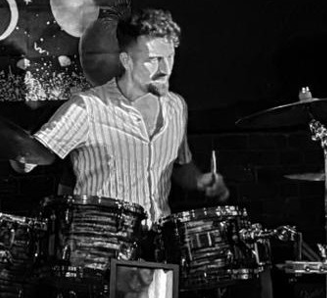
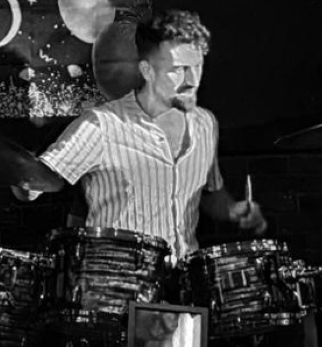
Resize band member photos and style borders and fonts

diff --git a/index.html b/index.html
@@ -115,10 +115,10 @@
                     <div id="services-table" class="col-12 m-0 p-2">
 
                         <div id="availability" class="services heading mb-1 mt-1">
-                        <p class="mb-0"><i class="fa-solid fa-calendar-days"></i> Availability</p>
+                        <p class="mb-0 py-2"><i class="fa-solid fa-calendar-days"></i> Availability</p>
                         </div>
                         <div class="services info">
-                        <p class="mb-0">Weekends, evenings & select weekdays. Advance bookings preferred.</p>
+                        <p class="mb-0 py-2">Weekends, evenings & select weekdays. Advance bookings preferred.</p>
                         </div>
 
 
@@ -126,7 +126,7 @@
                         <p class="mb-0"><i class="fa-solid fa-music"></i> Set times</p>
                         </div>
                         <div class="services info">
-                        <p class="mb-0">Option of either 45 mins / 90mins / 120mins sets</p>
+                        <p class="mb-0 py-2">Option of either 45 mins / 90mins / 120mins sets</p>
                         </div>
 
 
@@ -151,69 +151,69 @@
 
 
     <!-- Band member profile section -->
-    <section id="the-band" class="heading mt-5">
+    
+    <section id="the-band" class="mt-5 p-0">
         <div class="container-fluid p-0">
             <div class="row g-0">
                 <div class="col-12">
-                    <h2 class="my-4text-center">The band</h2>
+                    <h2 class="text-center heading">The band</h2>
                 </div>
-        </div>
-
-        <div id="band-members" class="row g-0 bg-black py-4 justify-content-center">
-
-        <!-- Chris -->
-        <div class="col-12 col-sm-6 col-xl-3 d-flex justify-content-center">
-            <div class="card text-center" style="max-width: 22rem;">
-            <img src="./assets/images/Chris.png" alt="Chris singing on stage" class="img-fluid mb-1 mt-3">
-            <div class="card-body">
-                <h3>Chris Morley</h3>
-                <p>Vocals & Guitar</p>
-            </div>
             </div>
         </div>
 
-        <!-- Gary -->
-        <div class="col-12 col-sm-6 col-xl-3 d-flex justify-content-center">
-            <div class="card text-center" style="max-width: 22rem;">
-            <img src="./assets/images/Gary.png" alt="Gary playing guitar on stage" class="img-fluid mb-1 mt-3">
-            <div class="card-body">
-                <h3>Gary Stone</h3>
-                <p>Vocals & Guitar</p>
+        <div id="band-members" class="row g-0 py-4 justify-content-center">
+
+            <!-- Chris -->
+            <div class="col-12 col-sm-6 col-xl-auto d-flex justify-content-center">
+                <div class="card text-center mb-4 mx-2" style="max-width: 22rem;">
+                    <img src="./assets/images/Chris.png" alt="Chris singing on stage" class="img-fluid mb-1 mt-3">
+                    <div class="card-body band-member">
+                        <h3>Chris Morley</h3>
+                        <p>Vocals & Guitar</p>
+                    </div>
+                </div>
             </div>
+
+            <!-- Gary -->
+            <div class="col-12 col-sm-6 col-xl-auto d-flex justify-content-center">
+                <div class="card text-center mb-4 mx-2" style="max-width: 22rem;">
+                    <img src="./assets/images/Gary.png" alt="Gary playing guitar on stage" class="img-fluid mb-1 mt-3">
+                    <div class="card-body band-member">
+                        <h3>Gary Stone</h3>
+                        <p>Vocals & Guitar</p>
+                    </div>
+                </div>
+            </div>
+
+            <!-- Callum -->
+            <div class="col-12 col-sm-6 col-xl-auto d-flex justify-content-center">
+                <div class="card text-center mb-4 mx-2" style="max-width: 22rem;">
+                    <img src="./assets/images/Callum-bw.png" alt="Callum playing bass" class="img-fluid mb-1 mt-3">
+                    <div class="card-body band-member">
+                        <h3>Callum Aves</h3>
+                        <p>Vocals & Bass Guitar</p>
+                    </div>
+                </div>
+            </div>
+
+            <!-- Rhys -->
+            <div class="col-12 col-sm-6 col-xl-auto d-flex justify-content-center">
+                <div class="card text-center mb-4 mx-2" style="max-width: 22rem;">
+                    <img src="./assets/images/Rhys-bw.png" alt="Rhys playing drums" class="img-fluid mb-1 mt-3">
+                    <div class="card-body band-member">
+                        <h3>Rhys Best</h3>
+                        <p>Drums</p>
+                    </div>
+                </div>
             </div>
         </div>
-
-        <!-- Callum -->
-        <div class="col-12 col-sm-6 col-xl-3 d-flex justify-content-center">
-            <div class="card text-center" style="max-width: 22rem;">
-            <img src="./assets/images/Callum-bw.png" alt="Callum playing bass" class="img-fluid mb-1 mt-3">
-            <div class="card-body">
-                <h3>Callum Aves</h3>
-                <p>Vocals & Bass Guitar</p>
-            </div>
-            </div>
-        </div>
-
-        <!-- Rhys -->
-        <div class="col-12 col-sm-6 col-xl-3 d-flex justify-content-center">
-            <div class="card text-center" style="max-width: 22rem;">
-            <img src="./assets/images/Rhys-bw.png" alt="Rhys playing drums" class="img-fluid mb-1 mt-3">
-            <div class="card-body">
-                <h3>Rhys Best</h3>
-                <p>Drums</p>
-            </div>
-            </div>
-        </div>
-
-    </div>
-  </div>
-</section>
+    </section>
 
         <!-- Contact/Booking Section -->
-        <section id="booking" class="container-fluid text-center p-0 heading">
+        <section id="booking" class="container-fluid text-center p-0 mt-5">
             <div class="row g-0">
                 <div id="booking-header" class="col-12">
-                    <h2>Contact</h2> 
+                    <h2 class="text-center heading">Contact</h2> 
                 </div>
                 <div id="booking-body" class="col-12">
                     <p class="mb-0 py-2">Ready to get the party started? Whether you're planning a private party, wedding

diff --git a/assets/css/style.css b/assets/css/style.css
@@ -220,7 +220,7 @@ main {
 
 
 #services > div {
-  border-bottom: solid #ffa500 4px;
+  border-bottom: solid #FFd700 4px;
 }
 
 #services-header {
@@ -275,11 +275,7 @@ main {
 
 /* Band profile */
 
-#band-profile .card {
-  background-color: #f5f5dc;
-}
-
-#band-profile .card h3 {
+#band-profile .card h4 {
   font-family: var(--secondary-font);
   font-size: 24px;
 }
@@ -290,13 +286,26 @@ main {
   color: #000000;
 }
 
-#band-profile h3 {
+.band-member h3 {
   color: #800080;
+  font-weight: 700;
+}
+
+.band-member p {
+  color: #1e90ff;
+  font-weight: 600;
 }
 
 #band-members {
-  background-color: #FFd700;
+  border-bottom: #FFd700 4px;
 }
+
+#the-band {
+  border-left: solid var(--secondary-color) 4px;
+  border-right: solid var(--secondary-color) 4px;
+  border-bottom: solid var(--secondary-color) 4px;
+}
+
 
 /* Booking page */
 
